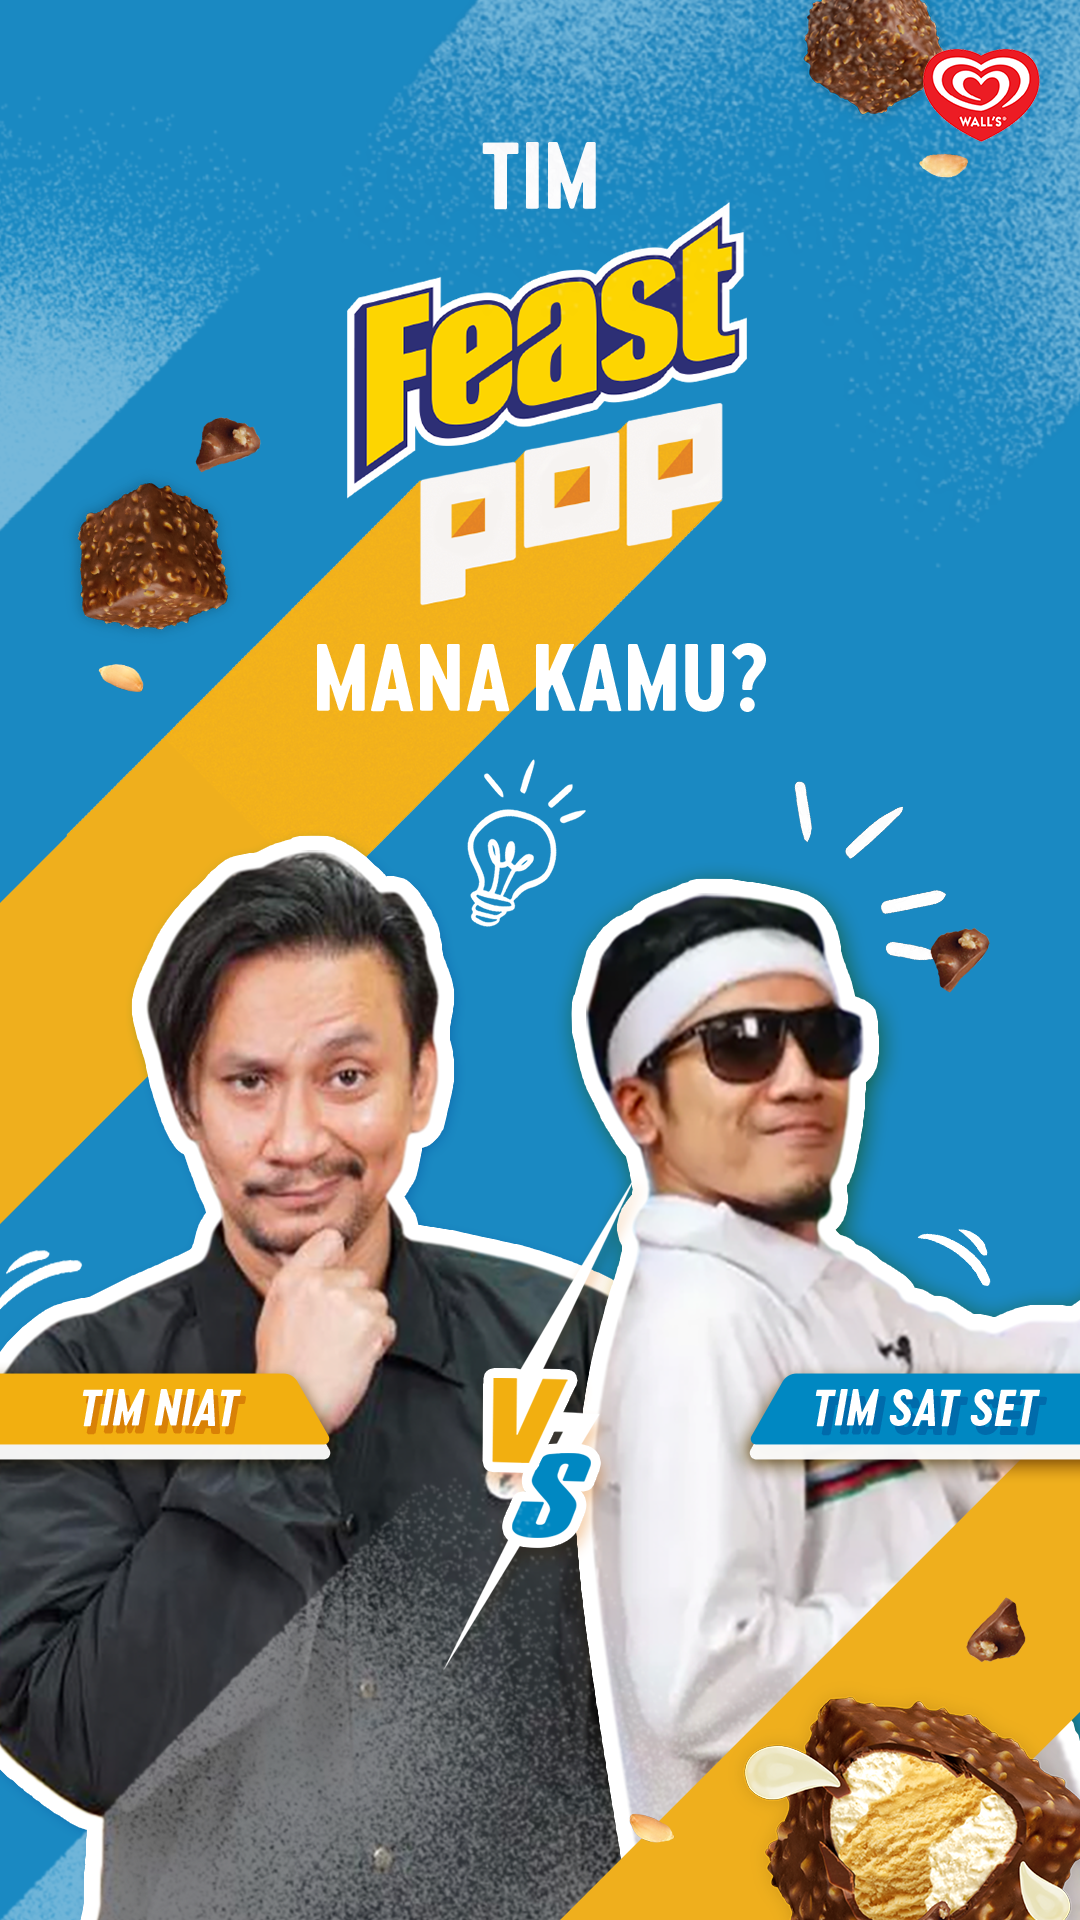
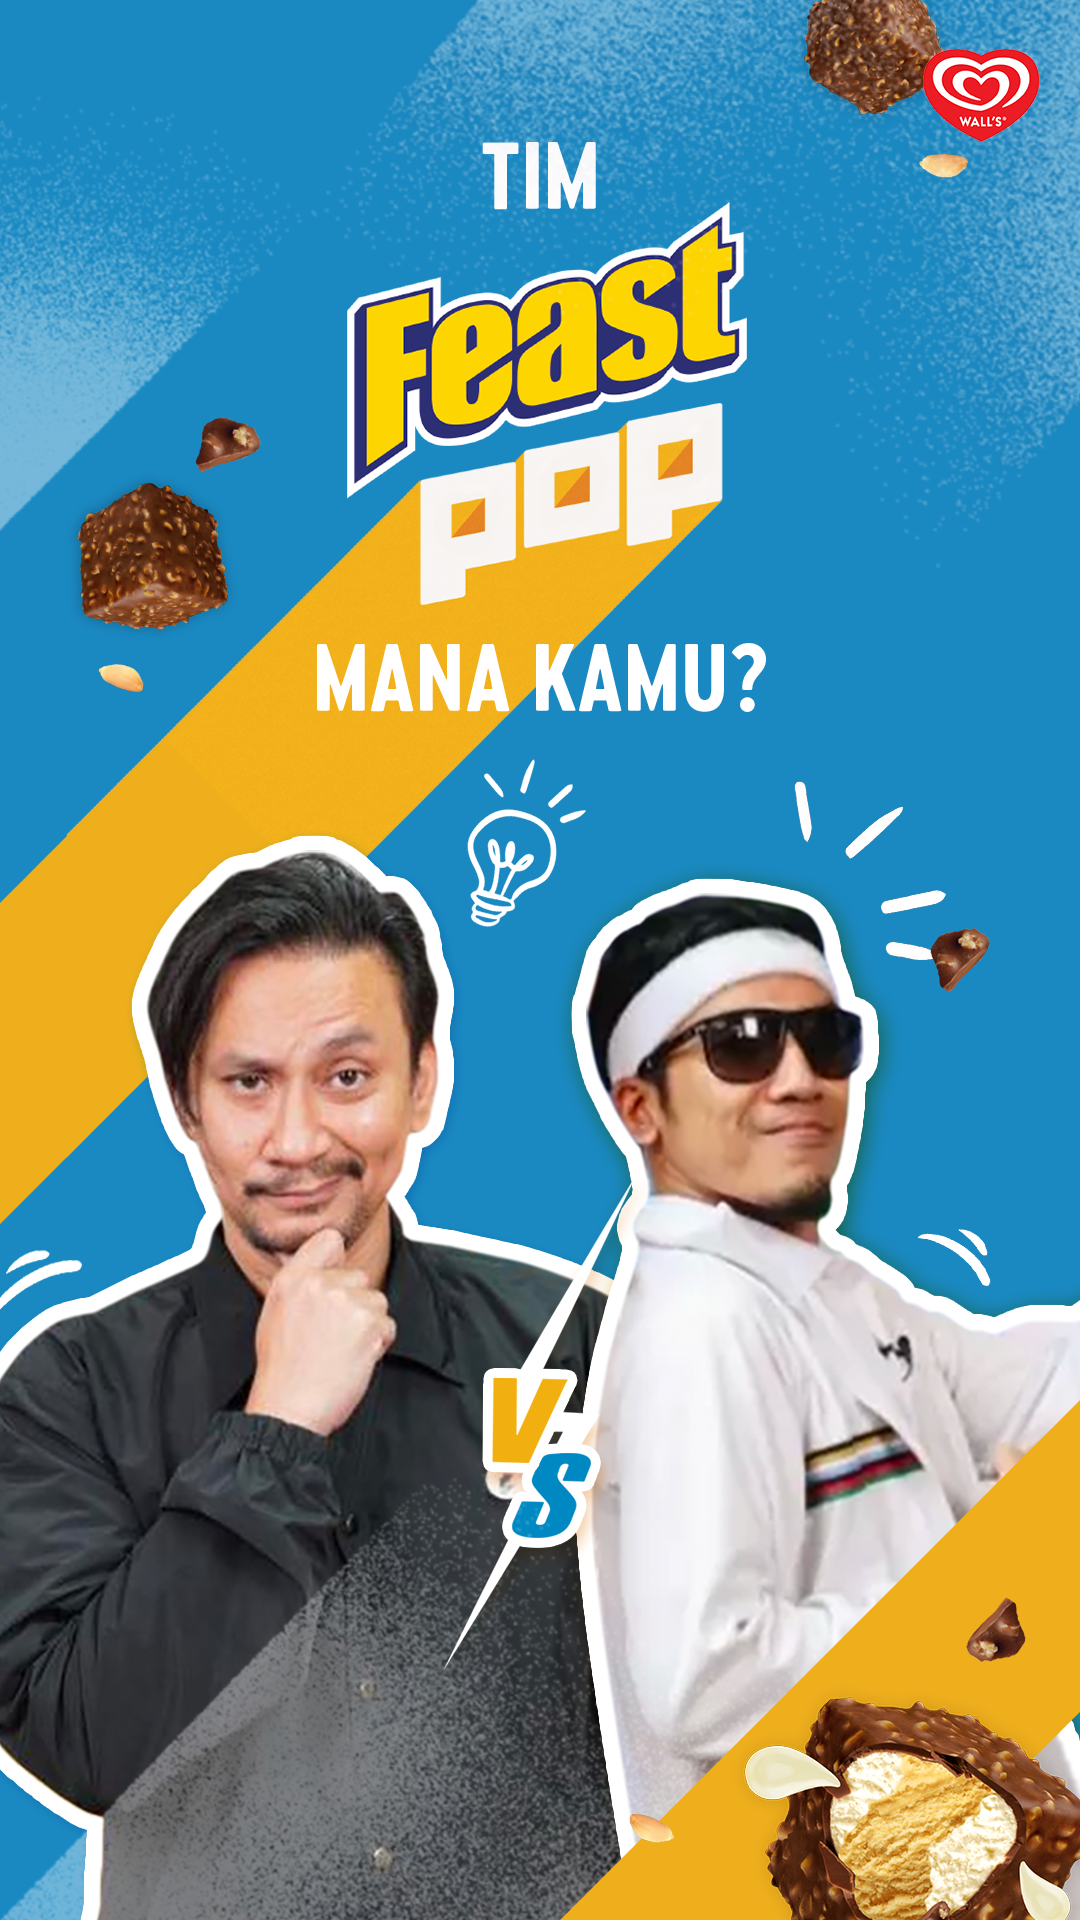
fixing main page, cover page masih pr

Changed region(s): [[0.6722, 0.6875, 1.0, 0.7812], [0.0, 0.6875, 0.3056, 0.7812]]

diff --git a/resources/js/Pages/Front/LandingPage.jsx b/resources/js/Pages/Front/LandingPage.jsx
@@ -55,7 +55,7 @@ const LandingPage = () => {
             <Envelope />
 
             {/* banner */}
-            <div className="w-full h-full relative overflow-y-hidden">
+            <div className="w-full h-full relative">
                 <div className="w-full !overflow-hidden">
                     <img src={banner} alt="" className="w-full h-full" />
                 </div>
@@ -71,9 +71,9 @@ const LandingPage = () => {
             {/* score */}
             <main className="mx-3 p-3 -translate-y-10 relative shadow-lg bg-white shadow-slate-200 rounded-xl font-FilsonProBold">
                 <div className="w-full mx-auto mb-4">
-                    <div className="w-full h-6 bg-[#99b3ff] rounded-full overflow-hidden">
+                    <div className="w-full h-6 bg-defaultBlue rounded-full overflow-hidden">
                         <div
-                            className="h-6 bg-[#ffdf80] rounded-tl-full rounded-bl-full"
+                            className="h-6 bg-defaultOrange rounded-tl-full rounded-bl-full"
                             style={{ width: score.score + "%" }}
                         ></div>
                     </div>
@@ -83,11 +83,11 @@ const LandingPage = () => {
                 </h2>
                 <div className="grid grid-cols-2 justify-center text-center gap-5">
                     <div className="">
-                        <div className="bg-slate-200 py-5 px-4 rounded-lg shadow-slate-300 mb-4">
-                            <p className="uppercase font-semibold text-xl text-yellow-500">
+                        <div className="bg-gradient-to-b from-white to-slate-200 shadow-sm py-5 px-4 rounded-2xl shadow-slate-300 mb-4">
+                            <p className="uppercase font-semibold text-xl text-defaultOrange">
                                 tim niat
                             </p>
-                            <p className="text-6xl font-semibold text-yellow-500">
+                            <p className="text-6xl font-semibold text-defaultOrange">
                                 {score.score}
                             </p>
                             <p className="text-xl">orang</p>
@@ -98,11 +98,11 @@ const LandingPage = () => {
                     </div>
 
                     <div className="">
-                        <div className="bg-slate-200 py-5 px-4 rounded-lg shadow-slate-300 mb-4">
-                            <p className="uppercase font-semibold text-xl text-blue-500">
+                        <div className="bg-gradient-to-b from-white to-slate-200 shadow-sm py-5 px-4 rounded-2xl shadow-slate-300 mb-4">
+                            <p className="uppercase font-semibold text-xl text-defaultBlue">
                                 tim satset
                             </p>
-                            <p className="text-6xl font-semibold text-blue-500">
+                            <p className="text-6xl font-semibold text-defaultBlue">
                                 {score.score}
                             </p>
                             <p className="text-xl">orang</p>
@@ -121,19 +121,19 @@ const LandingPage = () => {
                 <div className="grid grid-cols-2 gap-1.5 gap-y-5">
                     <Button
                         onClick={handleNiat}
-                        className="!text-white !bg-orange-400 !rounded-lg shadow-md !text-lg !font-FilsonProBold"
+                        className="!text-white !bg-gradient-to-b !from-[#f3c558] !to-defaultOrange !rounded-lg !shadow-md !shadow-defaultOrange !text-lg !font-FilsonProBold"
                     >
                         gabung <br />
                         niat
                     </Button>
                     <Button
                         onClick={handleSatset}
-                        className="!text-white !bg-orange-400 !rounded-lg shadow-md !text-lg !font-FilsonProBold"
+                        className="!text-white !bg-gradient-to-b !from-[#f3c558] !to-defaultOrange !rounded-lg !shadow-md !shadow-defaultOrange !text-lg !font-FilsonProBold"
                     >
                         gabung <br />
                         satset
                     </Button>
-                    <Button className="col-span-2 !text-white !bg-blue-400 !rounded-lg shadow-md !text-lg !font-FilsonProBold">
+                    <Button className="col-span-2 !text-white !bg-defaultBlue !rounded-lg !shadow-sm !shadow-defaultBlue !text-lg !font-FilsonProBold">
                         ikuti challenge
                     </Button>
                 </div>

diff --git a/resources/js/Components/Envelope.jsx b/resources/js/Components/Envelope.jsx
@@ -1,13 +1,16 @@
 import React, { useEffect, useState } from "react";
 import { Button } from "@mui/material";
 import anime from "animejs";
+
+// images
 const coverImage = "/assets/images/cover-image.png";
+const teamsBanner = "/assets/images/teams-banner.png";
 
 const Envelope = () => {
     const [open, setOpen] = useState(true);
 
     useEffect(() => {
-        document.body.style.overflow = "hidden";
+        // document.body.style.overflow = "hidden";
     }, []);
 
     const buttonHandler = (e) => {
@@ -22,24 +25,29 @@ const Envelope = () => {
     };
 
     return (
-        <header className="fixed max-w-sm to-top w-full h-full z-50">
+        <header className="hidden absolute left-0 top-0 to-top w-full z-50">
             <h1 className="hidden">FEAST POP</h1>
-            <div className="w-full h-full">
-                <img
-                    src={coverImage}
-                    alt="FEAST POP"
-                    className="w-full h-full object-cover"
-                />
-            </div>
-            <div className="absolute bottom-12 w-full flex justify-center">
-                <Button
-                    onClick={buttonHandler}
-                    className="button-animation bg-gradient-to-b from-[rgba(242,225,194,1)] from-1% to-[rgba(246,184,76,1)] to-90% rounded-md shadow-lg"
-                >
-                    <p className="uppercase text-white px-[40px] py-[10px] leading-none font-extrabold text-lg font-FilsonProBlack">
-                        tap to start
-                    </p>
-                </Button>
+            <div className="max-w-sm h-screen mx-auto relative">
+                <div className="w-full h-full">
+                    <img
+                        src={coverImage}
+                        alt="FEAST POP"
+                        className="w-full h-full object-cover"
+                    />
+                </div>
+                <div className="absolute bottom-44">
+                    <img src={teamsBanner} alt="" />
+                </div>
+                <div className="absolute bottom-12 w-full flex justify-center">
+                    <Button
+                        onClick={buttonHandler}
+                        className="button-animation bg-gradient-to-b from-[rgba(242,225,194,1)] from-1% to-[rgba(246,184,76,1)] to-90% rounded-md shadow-lg"
+                    >
+                        <p className="uppercase text-white px-[40px] py-[10px] leading-none font-extrabold text-lg font-FilsonProBlack">
+                            ketik untuk main
+                        </p>
+                    </Button>
+                </div>
             </div>
         </header>
     );

diff --git a/resources/js/Layouts/MainLayout.jsx b/resources/js/Layouts/MainLayout.jsx
@@ -2,8 +2,8 @@ import React from "react";
 
 const index = ({ children }) => {
     return (
-        <div className="bg-image-blur">
-            <div className="!overflow-x-hidden mx-auto max-w-sm relative shadow-2xl bg-white">
+        <div className="bg-image-blur relative min-h-screen">
+            <div className="min-w-[320px] max-w-[400px] min-h-screen mx-auto bg-white relative shadow-2xl pb-5">
                 <main>{children}</main>
             </div>
         </div>

diff --git a/tailwind.config.js b/tailwind.config.js
@@ -16,6 +16,10 @@ export default {
                 sans: ['FilsonProBook', ...defaultTheme.fontFamily.sans],
                 'FilsonProBold': ['FilsonProBold', 'sans-serif']
             },
+            colors: {
+                defaultOrange: '#efaf1d',
+                defaultBlue: '#1a89c2',
+            }
         },
     },
 

diff --git a/resources/css/app.css b/resources/css/app.css
@@ -18,4 +18,6 @@ html {
     background-image: url("./assets/images/blur-main.webp");
     background-repeat: no-repeat;
     background-size: cover;
+    background-position: center;
+    background-attachment: fixed;
 }
